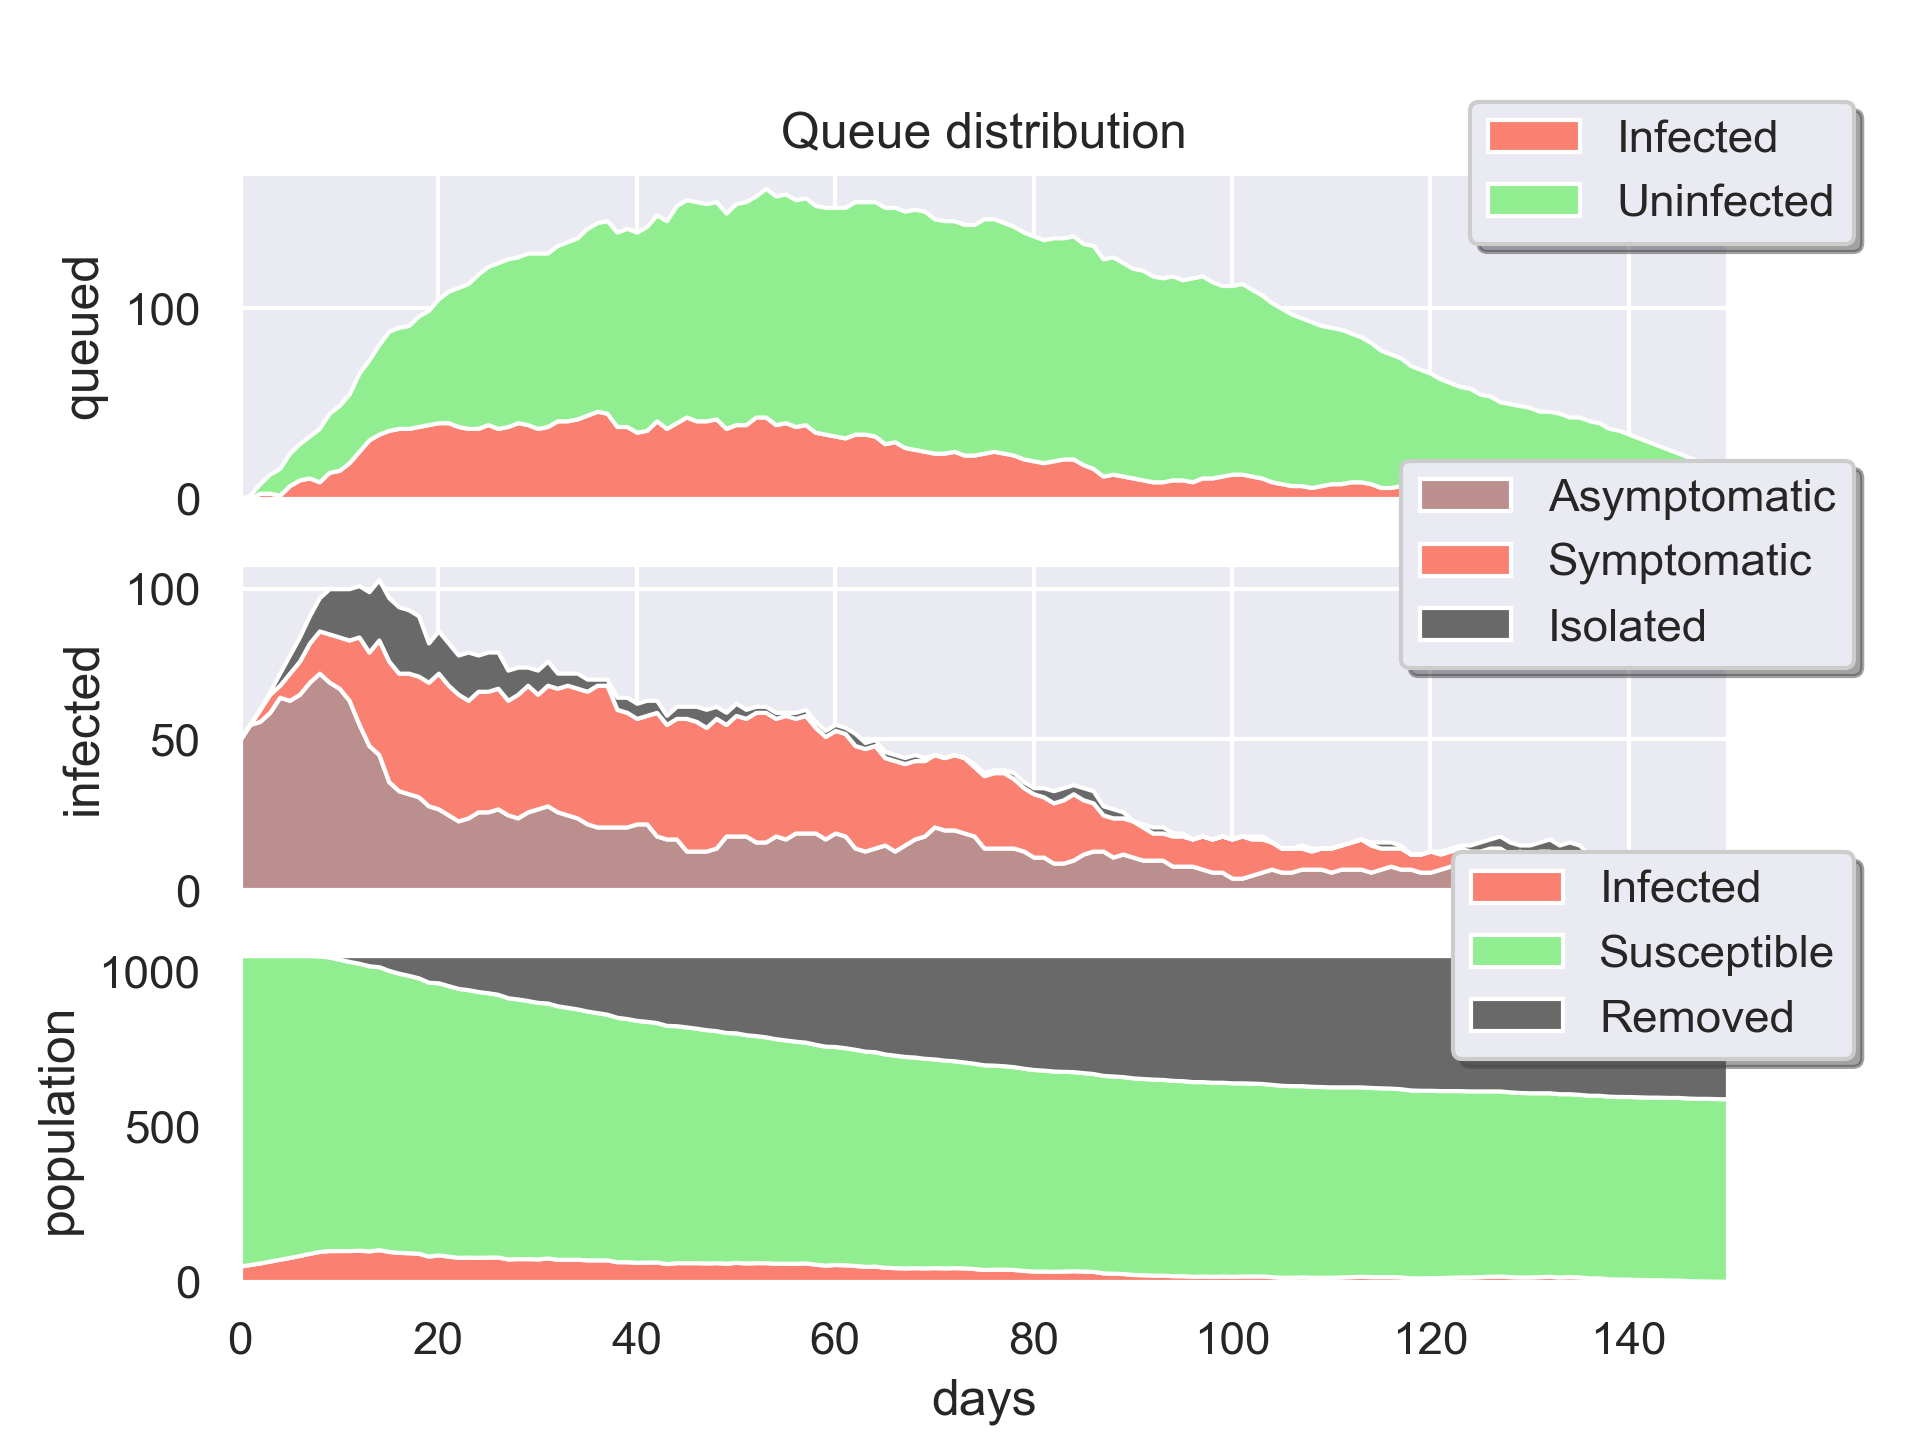
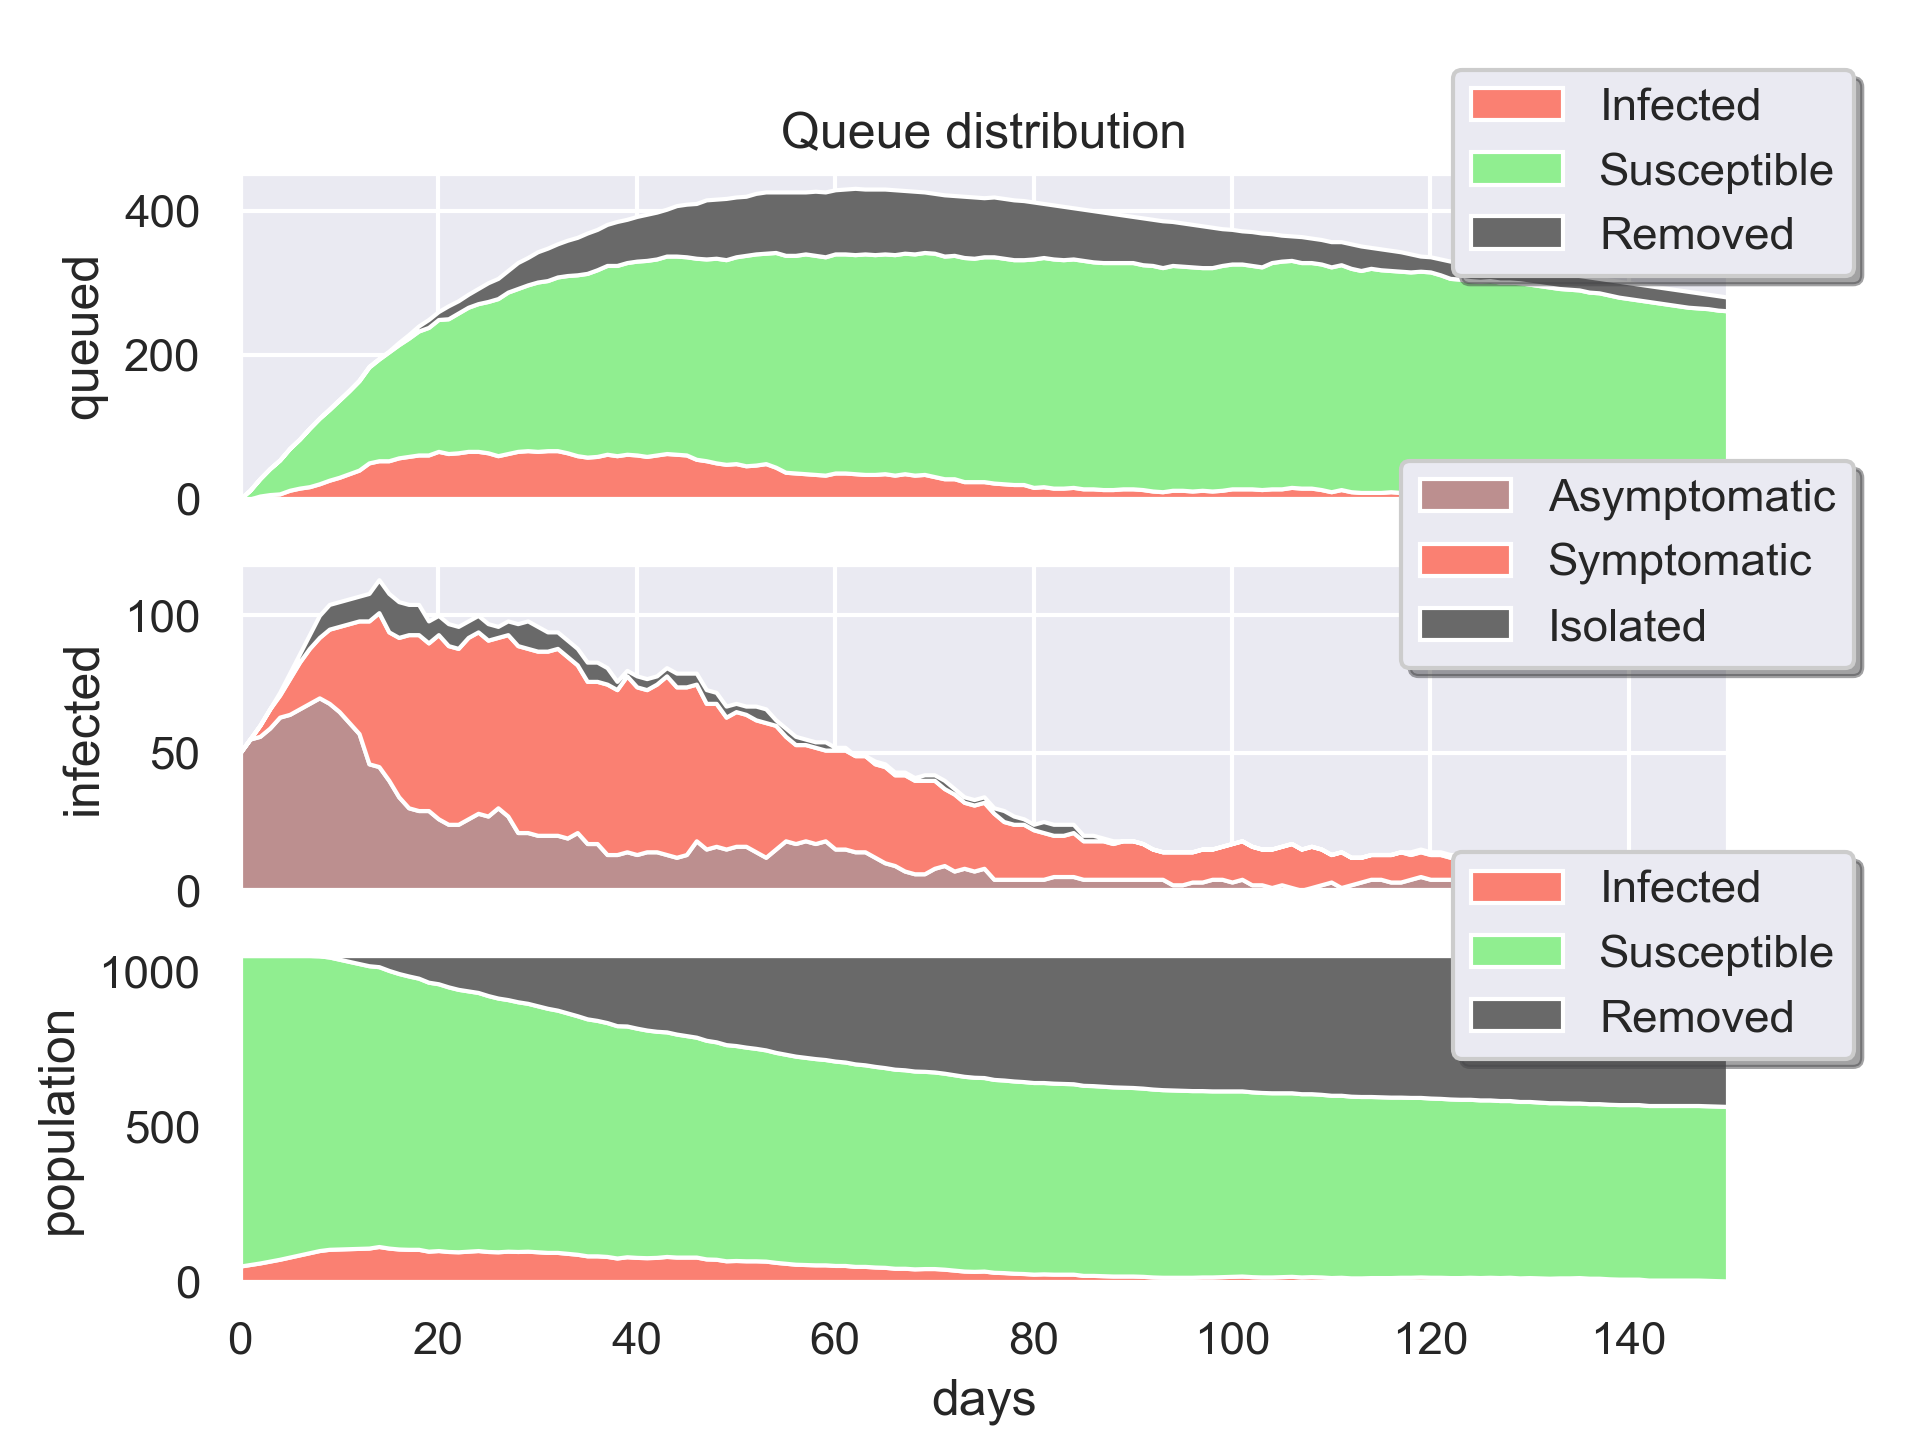
False symptoms queues

diff --git a/SIR_model/model.py b/SIR_model/model.py
@@ -15,6 +15,7 @@ import subprocess
 from .person import Person
 from .test_queue import TestQueue
 from .model_id_state import ModelIdState
+from .result import Result
 
 
 class Model:
@@ -96,11 +97,11 @@ class Model:
             state.UpdateState(self.People, queue)
 
             # False symptoms
-            S_to_FalseSymptoms = int(
+            S_to_FalseSymptoms_count = int(
                 np.round(len(state.SusceptibleNotQueuedIDs)*self.PFalseSymptoms))
-            if S_to_FalseSymptoms > 0:
+            if S_to_FalseSymptoms_count > 0:
                 S_to_FalseSymptoms_Ids = random.sample(
-                    state.SusceptibleNotQueuedIDs, S_to_FalseSymptoms)
+                    state.SusceptibleNotQueuedIDs, S_to_FalseSymptoms_count)
                 for i in S_to_FalseSymptoms_Ids:
                     self.People[i].FalseSymptomsInfect(t)
             state.UpdateState(self.People, queue)
@@ -137,8 +138,10 @@ class Model:
         results['InfectedInfectiveUnisolated'].append(
             len(state.InfectedInfectiveUnisolatedIDs))
 
+        results['SusceptibleQueued'].append(len(state.SusceptibleQueuedIDs))
         results['InfectedQueued'].append(len(state.InfectedQueuedIDs))
-        results['UninfectedQueued'].append(len(state.UninfectedQueuedIDs))
+        results['RemovedQueued'].append(len(state.RemovedQueuedIDs))
+
         results['ExpectedWaitingTime'].append(state.ExpectedWaitingTime)
 
     def plot(self, fileName='result.png', openFile=True, title='SIR-model with M|M|s testing queue'):
@@ -220,9 +223,10 @@ class Model:
         plt.subplot(3, 1, 1)
         plt.stackplot(self.Results['Time'],
                       [self.Results['InfectedQueued'],
-                       self.Results['UninfectedQueued']],
-                      labels=['Infected', 'Uninfected'],
-                      colors=['salmon', 'lightgreen'])
+                       self.Results['SusceptibleQueued'],
+                       self.Results['RemovedQueued']],
+                      labels=['Infected', 'Susceptible',  'Removed'],
+                      colors=['salmon', 'lightgreen', 'dimgray'])
         plt.legend(bbox_to_anchor=(1.1, 1), loc='right',
                    ncol=1, fancybox=True, shadow=True)
         plt.ylabel('queued')

diff --git a/SIR_model/model_id_state.py b/SIR_model/model_id_state.py
@@ -34,10 +34,13 @@ class ModelIdState:
         self.CanShowFalseSymptomsIDs = [i for (i, p) in
                                         enumerate(people) if p.Stage != "I" and (not p.IsQueued) and (not p.HasTestedPositive)]
 
+        self.SusceptibleQueuedIDs = [i for (i, p) in
+                                     enumerate(people) if p.Stage == "S" and p.IsQueued]
         self.InfectedQueuedIDs = [i for (i, p) in
                                   enumerate(people) if p.Stage == "I" and p.IsQueued]
-        self.UninfectedQueuedIDs = [i for (i, p) in
-                                    enumerate(people) if p.Stage != "I" and p.IsQueued]
+        self.RemovedQueuedIDs = [i for (i, p) in
+                                 enumerate(people) if p.Stage == "R" and p.IsQueued]
+
         self.ExpectedWaitingTime = queue.GetExpectedWaitingTime()
 
         self.Control()

diff --git a/SIR_model/person.py b/SIR_model/person.py
@@ -76,7 +76,7 @@ class Person:
         self.IsInfective = None
         self.IsSymptomatic = None
         self.WillIsolate = None
-        self.IsQueued = None
+        # self.IsQueued = None
         self.IsIsolated = None
         self.IsInfective = None
         self.IsSymptomatic = None
@@ -97,3 +97,6 @@ class Person:
                 self.IsQueued = False
                 self.WillIsolate = True
                 self.IsolateAt = t + self.TTestResult
+
+        if self.Stage == "R":
+            self.IsQueued = False
